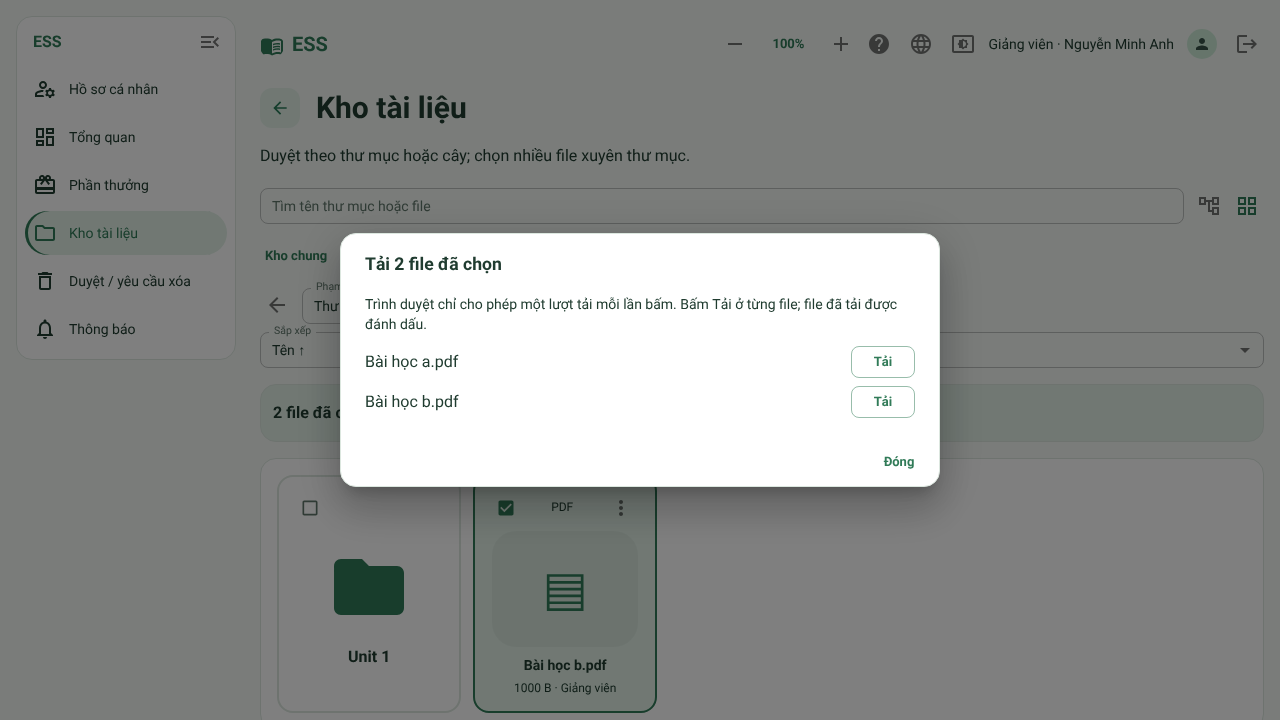
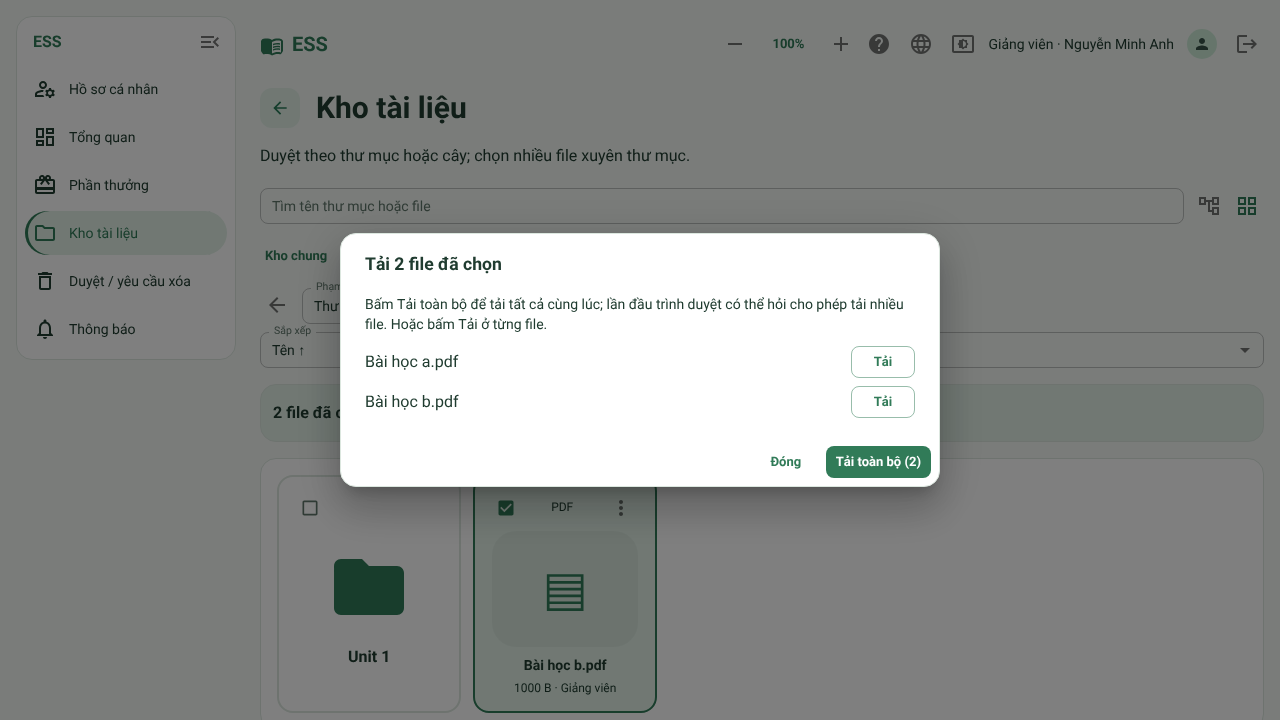
feat(materials): download all selected files from the list
The multi-file list gains "Tải toàn bộ": up to six files are fetched in
parallel from one queue and each download starts as soon as its file
arrives; the queue ends when empty. Each file keeps its own cached blob
until the browser has read it, instead of sharing one lazy query that
revoked the previous blob. Per-file Tải/Thử lại stays available.

Changed region(s): [[0.2812, 0.3972, 0.7188, 0.4583], [0.5938, 0.6111, 0.75, 0.6722]]

diff --git a/src/features/materials/browser.tsx b/src/features/materials/browser.tsx
@@ -37,7 +37,6 @@ import DialogContent from "@mui/material/DialogContent";
 import DialogActions from "@mui/material/DialogActions";
 import Alert from "@mui/material/Alert";
 import {
-  useLazyContentQuery,
   useLazyFolderPathQuery,
   useFoldersQuery,
   useFilesQuery,
@@ -47,7 +46,9 @@ import {
   useSaveFolderMutation,
   useRemoveFolderMutation,
   useAuditFileQuery,
+  libraryApi,
 } from "@/api/library-api";
+import { useAppDispatch } from "@/store";
 import { useWorkspace } from "@/features/access/hooks";
 import { Feedback } from "@/shared/ui";
 import { MaterialViewer } from "./viewer";
@@ -443,6 +444,9 @@ export function startDownload(url: string, file: MaterialFile) {
   link.click();
 }
 
+/** Parallel requests for "download all"; enough to be quick without flooding the API or memory. */
+export const DOWNLOAD_ALL_CONCURRENCY = 6;
+
 function DownloadListDialog({
   files,
   fetchUrl,
@@ -453,15 +457,46 @@ function DownloadListDialog({
   onClose: () => void;
 }) {
   const [done, setDone] = useState<Record<string, boolean>>({}),
-    [busy, setBusy] = useState<string>(),
+    [failed, setFailed] = useState<Record<string, boolean>>({}),
+    [busy, setBusy] = useState<Record<string, boolean>>({}),
     [error, setError] = useState<unknown>();
+  const working = Object.values(busy).some(Boolean);
+  const fetchOne = async (f: MaterialFile) => {
+    setBusy((b) => ({ ...b, [f.id]: true }));
+    setFailed((x) => ({ ...x, [f.id]: false }));
+    try {
+      startDownload(await fetchUrl(f), f);
+      setDone((d) => ({ ...d, [f.id]: true }));
+      return true;
+    } catch (e) {
+      setFailed((x) => ({ ...x, [f.id]: true }));
+      setError(e);
+      return false;
+    } finally {
+      setBusy((b) => ({ ...b, [f.id]: false }));
+    }
+  };
+  const downloadAll = async () => {
+    setError(undefined);
+    const queue = files.filter((f) => !done[f.id]);
+    // A few workers pull from one queue so the whole list downloads in parallel, then ends.
+    await Promise.all(
+      Array.from(
+        { length: Math.min(DOWNLOAD_ALL_CONCURRENCY, queue.length) },
+        async () => {
+          for (let f = queue.shift(); f; f = queue.shift()) await fetchOne(f);
+        },
+      ),
+    );
+  };
+  const remaining = files.filter((f) => !done[f.id]).length;
   return (
-    <Dialog open onClose={onClose} fullWidth maxWidth="sm">
+    <Dialog open onClose={() => !working && onClose()} fullWidth maxWidth="sm">
       <DialogTitle>Tải {files.length} file đã chọn</DialogTitle>
       <DialogContent>
         <Typography variant="body2" color="text.secondary" sx={{ mb: 1.5 }}>
-          Trình duyệt chỉ cho phép một lượt tải mỗi lần bấm. Bấm Tải ở từng
-          file; file đã tải được đánh dấu.
+          Bấm Tải toàn bộ để tải tất cả cùng lúc; lần đầu trình duyệt có thể hỏi
+          cho phép tải nhiều file. Hoặc bấm Tải ở từng file.
         </Typography>
         <Feedback error={error} />
         <Stack
@@ -484,33 +519,42 @@ function DownloadListDialog({
               {done[f.id] && (
                 <Chip size="small" color="success" label="Đã tải" />
               )}
+              {failed[f.id] && !busy[f.id] && (
+                <Chip size="small" color="error" label="Lỗi" />
+              )}
               <Button
                 size="small"
                 variant={done[f.id] ? "text" : "outlined"}
-                loading={busy === f.id}
-                disabled={!!busy && busy !== f.id}
+                loading={!!busy[f.id]}
+                disabled={!!busy[f.id]}
                 aria-label={`Tải ${f.displayName}`}
-                onClick={async () => {
+                onClick={() => {
                   setError(undefined);
-                  setBusy(f.id);
-                  try {
-                    startDownload(await fetchUrl(f), f);
-                    setDone((d) => ({ ...d, [f.id]: true }));
-                  } catch (e) {
-                    setError(e);
-                  } finally {
-                    setBusy(undefined);
-                  }
+                  void fetchOne(f);
                 }}
               >
-                Tải
+                {failed[f.id] ? "Thử lại" : "Tải"}
               </Button>
             </Stack>
           ))}
         </Stack>
       </DialogContent>
       <DialogActions>
-        <Button onClick={onClose}>Đóng</Button>
+        <Button onClick={onClose} disabled={working}>
+          Đóng
+        </Button>
+        <Button
+          variant="contained"
+          loading={working}
+          disabled={!remaining}
+          onClick={() => void downloadAll()}
+        >
+          {!remaining
+            ? "Đã tải toàn bộ"
+            : remaining === files.length
+              ? `Tải toàn bộ (${files.length})`
+              : `Tải ${remaining} file còn lại`}
+        </Button>
       </DialogActions>
     </Dialog>
   );
@@ -661,7 +705,8 @@ export function MaterialBrowser({
     ),
     [saveFolder, folderState] = useSaveFolderMutation(),
     [removeFolder] = useRemoveFolderMutation(),
-    [download, downloadState] = useLazyContentQuery(),
+    [savingFile, setSavingFile] = useState(false),
+    dispatch = useAppDispatch(),
     [loadPath] = useLazyFolderPathQuery(),
     navigationId = useRef(0),
     [renameFile, renameState] = useRenameFileMutation(),
@@ -709,10 +754,29 @@ export function MaterialBrowser({
     showInfo = useCallback((file: MaterialFile) => setInformation(file), []),
     showPreview = useCallback((file: MaterialFile) => setPreview(file), []);
   const [downloadList, setDownloadList] = useState<MaterialFile[]>();
-  const downloadUrl = (f: MaterialFile) =>
-    download({ id: f.id, purpose: "download" }, false).unwrap();
-  const saveFile = async (f: MaterialFile) =>
-    startDownload(await downloadUrl(f), f);
+  // Each file holds its own cache entry (a blob URL) until the browser has read it; a shared
+  // lazy query would revoke one file's blob as soon as the next request started.
+  const downloadUrl = async (f: MaterialFile) => {
+    const request = dispatch(
+      libraryApi.endpoints.content.initiate(
+        { id: f.id, purpose: "download" },
+        { forceRefetch: true },
+      ),
+    );
+    try {
+      return await request.unwrap();
+    } finally {
+      setTimeout(() => request.unsubscribe(), 60_000);
+    }
+  };
+  const saveFile = async (f: MaterialFile) => {
+    setSavingFile(true);
+    try {
+      startDownload(await downloadUrl(f), f);
+    } finally {
+      setSavingFile(false);
+    }
+  };
   const action = async (fn: () => Promise<unknown>, success: string) => {
     setError(undefined);
     try {
@@ -971,7 +1035,7 @@ export function MaterialBrowser({
                 : ""}
             </Typography>
             <Button
-              disabled={!chosen.length || downloadState.isFetching}
+              disabled={!chosen.length || savingFile}
               onClick={() => {
                 // Browsers block several downloads started by one click, so more than one
                 // file opens a list where each file is fetched by its own click.

diff --git a/e2e/material-library.spec.ts b/e2e/material-library.spec.ts
@@ -1294,7 +1294,7 @@ for (const screen of [
   });
 }
 
-test("several selected files download one per click from a list", async ({
+test("several selected files open a list that downloads all at once or one by one", async ({
   page,
 }, info) => {
   await fixture(page);
@@ -1324,19 +1324,31 @@ test("several selected files download one per click from a list", async ({
   await page
     .getByRole("button", { name: "Tải các file đã chọn", exact: true })
     .click();
-  // Nothing starts until each file is clicked: one browser download per gesture.
+  // Opening the list requests nothing yet.
   const list = page.getByRole("dialog", { name: "Tải 2 file đã chọn" });
   await expect(list).toBeVisible();
   expect(fetched).toEqual([]);
   await page.screenshot({ path: info.outputPath("download-list.png") });
-  for (const name of ["Bài học a.pdf", "Bài học b.pdf"]) {
-    const download = page.waitForEvent("download");
-    await list.getByRole("button", { name: `Tải ${name}` }).click();
-    expect((await download).suggestedFilename()).toBe(name);
-  }
+  // "Download all" requests every file in parallel and starts each download.
+  const names: string[] = [];
+  page.on("download", (d) => names.push(d.suggestedFilename()));
+  await list
+    .getByRole("button", { name: "Tải toàn bộ (2)", exact: true })
+    .click();
+  await expect
+    .poll(() => names.sort())
+    .toEqual(["Bài học a.pdf", "Bài học b.pdf"]);
   await expect(list.getByText("Đã tải", { exact: true })).toHaveCount(2);
   expect(fetched.sort()).toEqual(["a", "b"]);
+  await expect(
+    list.getByRole("button", { name: "Đã tải toàn bộ", exact: true }),
+  ).toBeDisabled();
   await page.screenshot({ path: info.outputPath("download-list-done.png") });
+  // A single file can still be fetched again on its own.
+  const again = page.waitForEvent("download");
+  await list.getByRole("button", { name: "Tải Bài học a.pdf" }).click();
+  expect((await again).suggestedFilename()).toBe("Bài học a.pdf");
+  expect(fetched.filter((x) => x === "a")).toHaveLength(2);
   await list.getByRole("button", { name: "Đóng", exact: true }).click();
   await expect(list).toHaveCount(0);
 });

diff --git a/docs/in-app-dialogs.md b/docs/in-app-dialogs.md
@@ -10,7 +10,7 @@ Staff Portal dùng `window.confirm`/`window.prompt` ở khoảng 40 chỗ. Hộp
 - Ô lý do bắt buộc: nút xác nhận bị khóa và có dòng giải thích khi còn trống; Enter để gửi. Có giới hạn độ dài và kiểm tra riêng (ví dụ liên kết chỉ nhận http/https).
 - Cảnh báo rời trang khi chưa lưu (`confirmLeave`) dùng cùng hộp thoại cho link, nút quay lại, đổi tab, đổi không gian và nút Back của trình duyệt. Đóng/tải lại trang vẫn dùng cảnh báo `beforeunload` của trình duyệt (bắt buộc theo chuẩn web).
 - **Ngắt liên kết lớp khỏi danh mục quà** giờ hỏi xác nhận và nói rõ cấu hình ẩn/hiện từng quà của lớp sẽ bị xóa.
-- **Tải nhiều file đã chọn**: trình duyệt chặn nhiều lượt tải từ một lần bấm, nên chọn từ 2 file sẽ mở danh sách; mỗi file tải bằng một lần bấm và được đánh dấu "Đã tải". Một file vẫn tải ngay.
+- **Tải nhiều file đã chọn**: chọn từ 2 file sẽ mở danh sách. "Tải toàn bộ" gọi API tải song song (tối đa 6 file cùng lúc, hết hàng đợi thì dừng) và bắt đầu tải từng file ngay khi nhận được; lần đầu trình duyệt có thể hỏi cho phép tải nhiều file. Vẫn có nút Tải/Thử lại cho từng file, file đã tải được đánh dấu. Một file vẫn tải ngay. Mỗi file giữ blob riêng đến khi trình duyệt đọc xong rồi mới giải phóng.
 - Nút đóng hộp "Chọn tài liệu" trong soạn bài tập có nhãn cho trình đọc màn hình.
 
 Không có timer, polling hay request mới; hộp thoại chỉ tồn tại khi đang hỏi. Không cần đổi backend, biến môi trường hay workflow.
